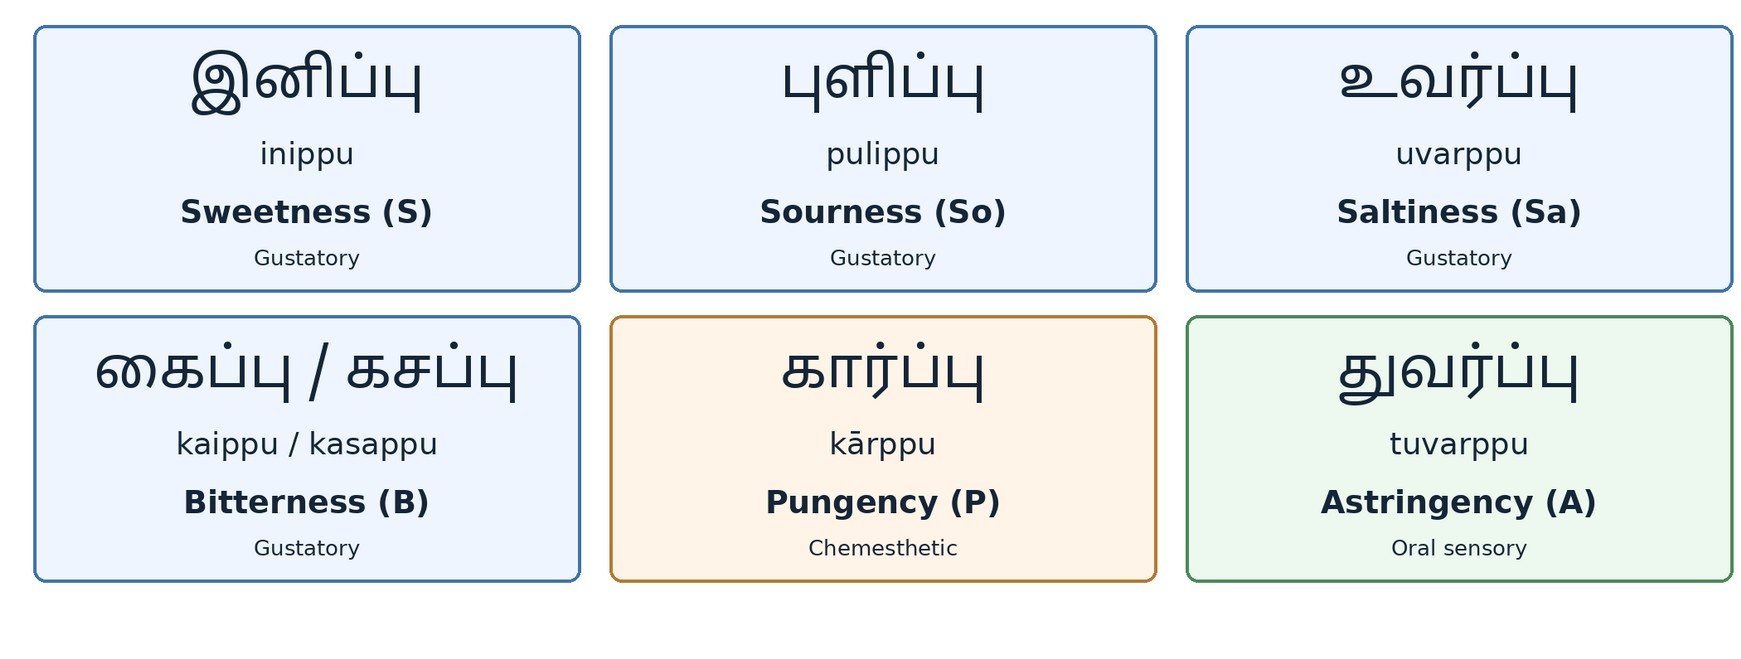
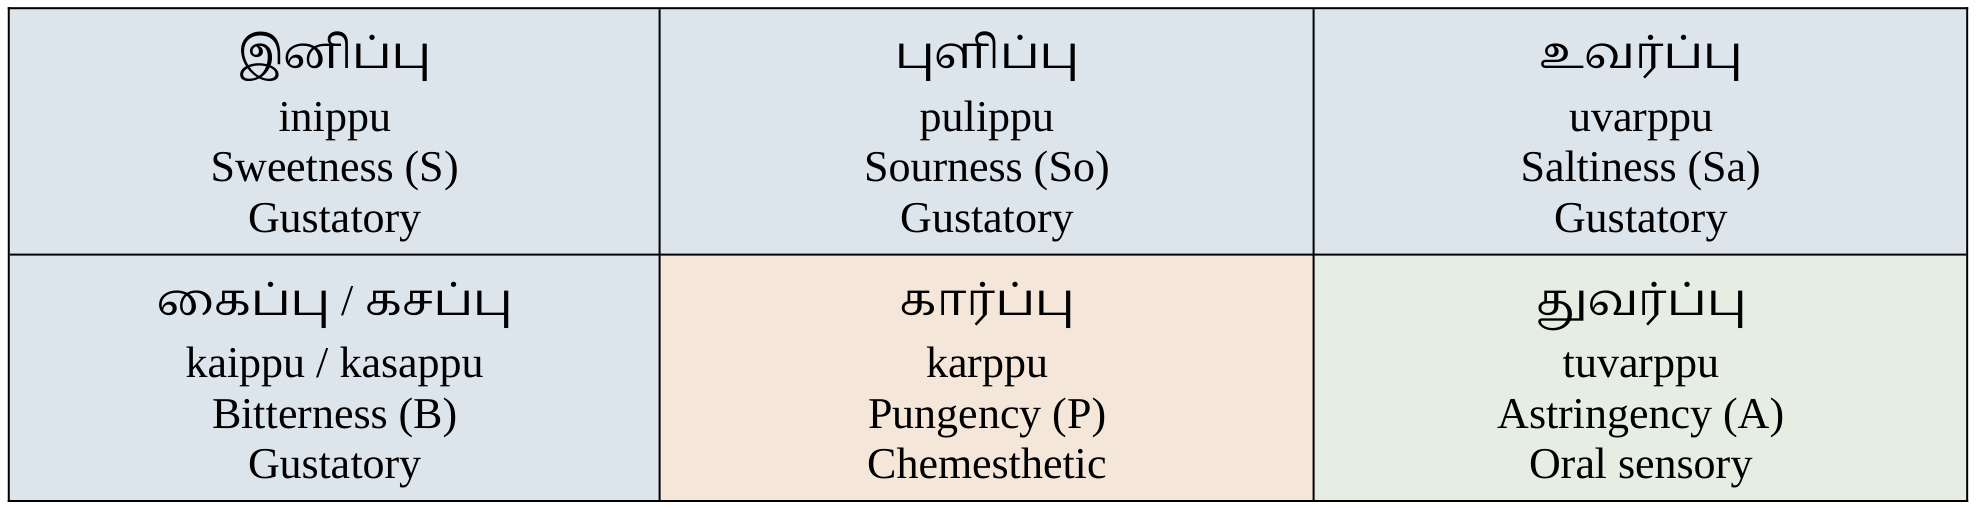
Update research supplement for manuscript consistency v2.0.2

diff --git a/README.md b/README.md
@@ -1,6 +1,8 @@
 # Arusuvai Computational Taste Framework (ACTF)
 
-**Research supplement · Software release 2.0.1 · Profile schema 2.0**
+**Research supplement · Software release 2.0.2 · Profile schema 2.0**
+
+Accompanying manuscript: **Can the Six Traditional Tamil Flavors of Arusuvai Be Represented Computationally? A Six-Dimensional Framework for Food-Related Oral Chemosensation**
 
 Author: Vimal Aditya Raj Varadharaj ([ORCID](https://orcid.org/0009-0008-1692-9355))
 
@@ -30,7 +32,7 @@ python figures_v2.py
 python -m unittest -v
 ```
 
-Optional local package installation: `python -m pip install .` (requires setuptools). The direct scripts do not require this installation. Figure 1 is a supplied image; figures 2–4 are generated by the scripts. Exact image bytes may vary across systems due to fonts and rendering libraries. The supplied checksums document the archived files, not experimental validity.
+Optional local package installation: `python -m pip install .` (requires setuptools). The direct scripts do not require this installation. Figure 1 is an export of the manuscript’s reconstructed vocabulary diagram; figures 2–4 are generated by the scripts. Exact image bytes may vary across systems due to fonts and rendering libraries. The supplied checksums document the archived files, not experimental validity.
 
 | File | Purpose |
 |---|---|
@@ -60,13 +62,13 @@ b['coordinates']['P'] = None
 print(bounds(a, b))  # (lower distance, upper distance, known coordinate count)
 ```
 
-`actf` also exposes `validate`, `loads`, `dumps`, `normalize`, `compatibility`, `completion_bounds`, and `read_synthetic_csv`. `distance` requires all six values and matching protocol declarations; `bounds` permits missing coordinates but retains the protocol gate. `completion_bounds` is explicitly geometry-only; its endpoints are not statistical confidence limits. Non-synthetic records with unknown time windows fail the conservative gate. The gate compares declarations, not actual experimental equivalence; sample conditions are retained but not automatically required to match. Temperature is in Celsius and portion in grams. Schema 2.0 is incompatible with the earlier array-based format. The JavaScript comparator operates on complete, schema-validated records and is not a general-purpose validator. Software release 2.0.1 retains schema 2.0 and the study geometry.
+`actf` also exposes `validate`, `loads`, `dumps`, `normalize`, `compatibility`, `completion_bounds`, and `read_synthetic_csv`. `distance` requires all six values and matching protocol declarations; `bounds` permits missing coordinates but retains the protocol gate. `completion_bounds` is explicitly geometry-only; its endpoints are not statistical confidence limits. Non-synthetic records with unknown time windows fail the conservative gate. The gate compares declarations, not actual experimental equivalence; sample conditions are retained but not automatically required to match. Temperature is in Celsius and portion in grams. Schema 2.0 is incompatible with the earlier array-based format. The JavaScript comparator operates on complete, schema-validated records and is not a general-purpose validator. Software release 2.0.2 retains schema 2.0 and the study geometry.
 
 ## Verification and citation
 
 The included `test_log.txt` and `rerun_log.txt` record local execution; they are not an external audit. Run `python -m unittest -v` to verify the release. On Linux, verify the archived file checksums before regeneration using `sha256sum -c SHA256SUMS.txt`.
 
-Use the citation metadata in `CITATION.cff` (GitHub displays it as “Cite this repository”). Cite the accompanying manuscript when publicly available, and cite the original study for the published aggregate values. No repository URL, preprint DOI or software DOI is asserted in this archive; add the actual identifiers after publication.
+Use the citation metadata in `CITATION.cff` (GitHub displays it as “Cite this repository”). Cite the accompanying manuscript when publicly available, and cite the original study for the published aggregate values. Repository: https://github.com/vimaladityaraj/ACTF. Prior software release 2.0.1: https://doi.org/10.5281/zenodo.24514358. This DOI identifies the prior release, not the 2.0.2 package.
 
 ## Licenses and research transparency
 

diff --git a/RELEASE_CHECKLIST.md b/RELEASE_CHECKLIST.md
@@ -1,14 +1,11 @@
-# Public release checklist
+# Release checklist — 2.0.2
 
-## Included in software release 2.0.1
-- Order-independent protocol comparison in JavaScript, including the unknown-timing gate for observed/estimated records.
-- Overflow-safe normalization with finite-result validation and regression tests.
-- Regression tests for asymmetric completion bounds, license files, citation metadata, Git configuration, updated documentation, and regenerated verification records.
-- Original study inputs, geometry and outputs retained; schema remains 2.0.
+- Review title, figure provenance, licensing and manuscript before publishing.
+- Replace repository files with this package, including the revised figure and SHA256SUMS.txt.
+- Publish a new GitHub release tagged v2.0.2 after committing the files.
+- Confirm Zenodo archives that release and record its version-specific DOI.
+- Update the manuscript citation and data availability statement with the new DOI.
+- Keep the prior release and its DOI intact. The prior DOI is not an identifier for this package.
+- Submit the matching Word/PDF manuscript and archived supplement.
 
-## Author actions before making the repository public
-- Review and approve the code, mathematical derivations, AI disclosure and proposed MIT/CC0 licensing; confirm figure rights. The license files are prepared for the author to adopt, not independent evidence of rights ownership.
-- Verify all remaining manuscript citations and Tamil lexicon entries against the original sources where possible.
-- In the manuscript, reconcile ACTF with the expanded name (Arusuvai Computational Taste Framework); add the author's preferred public correspondence email. Update the test description to distinguish the original 29 tests from the additional release regressions if reporting the updated suite.
-- Create a public GitHub repository and upload the extracted contents to its root, including hidden Git configuration files. Create tag/release `v2.0.1`. Archive that specific release on Zenodo and add its actual DOI and URL to the manuscript's data/code availability statement and to `CITATION.cff`/README as appropriate. Regenerate the checksums after editing those files. No DOI or repository has been created by this package.
-- Submit the corrected manuscript and this supplement to the chosen preprint server; use the server's required manuscript format and disclosure policy. No posting or peer review is implied.
+The numerical results and analysis code are unchanged from 2.0.1. Original execution logs are retained and explicitly identify that release.

diff --git a/CHANGELOG.md b/CHANGELOG.md
@@ -1,5 +1,12 @@
 # Changelog
 
+## 2.0.2
+
+- Align accompanying manuscript title and Figure 1 with the final submission.
+- Add repository URL and prior release DOI to documentation.
+- Preserve schema 2.0, computational code, input data and numerical outputs.
+- Retain original execution logs as evidence for 2.0.1; refresh package checksums.
+
 ## 2.0.1
 
 - Compare JSON protocol declarations structurally in JavaScript; preserve array order but ignore object key order. Reject non-synthetic records with unknown timing, consistent with the Python comparison gate.
